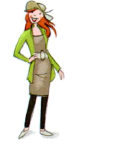
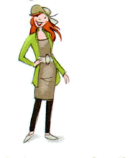
AB A1.2 p78: native page matching scan (13.5px DroidSerif body, 28.5px title, scan-data coords; 4 graded checks)

Changed region(s): [[0.096, 0.0, 0.48, 0.9333], [0.672, 0.9867, 0.72, 1.0], [0.912, 0.9867, 0.936, 1.0]]

diff --git a/src/native-ab12/NativeAB12P78.tsx b/src/native-ab12/NativeAB12P78.tsx
@@ -37,13 +37,13 @@ export function NativeAB12P78({page}:{page:string}){
 
  if(page!=='78')return null;
  return <div className="nativeAB12" ref={root} data-native-ab12={page}><style>{`@font-face{font-family:FiraSans;src:url('assets/fonts/firasans-latin-400.woff2') format('woff2');font-weight:400}@font-face{font-family:FiraSans;src:url('assets/fonts/firasans-latin-700.woff2') format('woff2');font-weight:700}@font-face{font-family:FiraSans;src:url('assets/fonts/firasans-latin-600.woff2') format('woff2');font-weight:600}@font-face{font-family:FiraSans;src:url('assets/fonts/firasans-latin-500.ttf') format('truetype');font-weight:500}@font-face{font-family:DroidSerif;src:url('assets/fonts/droid-serif-400.ttf') format('truetype');font-weight:400}@font-face{font-family:DroidSerif;src:url('assets/fonts/droid-serif-700.woff2') format('woff2');font-weight:700}
-[data-native-ab12='78'] .naText{font-family:DroidSerif,Georgia,serif;font-size:13px;color:#2b2b2b;letter-spacing:0;position:absolute;white-space:nowrap}
+[data-native-ab12='78'] .naText{font-family:DroidSerif,Georgia,serif;font-size:13.5px!important;color:#2b2b2b;letter-spacing:0;position:absolute;white-space:nowrap}
 [data-native-ab12='78'] .naArt{position:absolute;object-fit:fill}
 [data-native-ab12='78'] .naNum78{position:absolute;width:21px;height:17px;background:#e30613;color:#fff;font:700 13px/17px FiraSans,sans-serif;text-align:center}
 [data-native-ab12='78'] .naKB78{position:absolute;font:600 10.5px FiraSans,sans-serif;color:#5ab0da}
 [data-native-ab12='78'] .naRail78{position:absolute;font:600 10px FiraSans,sans-serif;color:#6f77ab;letter-spacing:2px;writing-mode:vertical-rl;transform:rotate(180deg)}
 [data-native-ab12='78'] .naT78{font-family:FiraSans,sans-serif!important;font-weight:600;font-size:15px!important;color:#17141c!important}
-[data-native-ab12='78'] .naTitle78{font-size:22.5px!important;letter-spacing:.7px!important;color:#1a1a1a!important}
+[data-native-ab12='78'] .naTitle78{font-size:28.5px!important;letter-spacing:0!important;color:#1a1a1a!important}
 [data-native-ab12='78'] .naLet78{font-size:15px!important}
 [data-native-ab12='78'] .naField78{position:absolute;width:13px;height:16px;background:transparent;border:none;border-bottom:1.5px solid #9aa3ab;font:14px DroidSerif,Georgia,serif;color:#1c3f8f;padding:0;text-align:center;outline:none;box-sizing:border-box}
 [data-native-ab12='78'] .naCanvas .naField78[data-check-mark="ok"]{background:transparent!important;border-color:transparent!important;box-shadow:none!important;border-bottom:2px solid #2f7d4f!important;color:#1c3f8f!important}
@@ -55,7 +55,7 @@ export function NativeAB12P78({page}:{page:string}){
 [data-native-ab12='78'] .naPick78[data-check-mark="ok"] .naOpt78.on78{background:#bfe3c8}
 [data-native-ab12='78'] .naPick78[data-check-mark="bad"] .naOpt78.on78{background:#f5c1c1}
 [data-native-ab12='78'] .naPick78[data-check-mark="bad"][data-empty="1"]{box-shadow:0 2px 0 #c62f2f}
-[data-native-ab12='78'] .naDot78{position:absolute;width:11px!important;height:11px!important;border-width:1.5px!important;margin:0!important}
+[data-native-ab12='78'] .naDot78{position:absolute;width:10px!important;height:10px!important;border-width:1.5px!important;margin:0!important}
 [data-native-ab12='78'] .naBul78{position:absolute;font:11px Arial,sans-serif}
 [data-native-ab12='78'] .naField5{position:absolute;height:17px;background:transparent;border:none;border-bottom:1.5px solid #9aa3ab;font:13.5px DroidSerif,Georgia,serif;color:#1c3f8f;padding:0 2px;outline:none;box-sizing:border-box}
 [data-native-ab12='78'] .naCanvas .naField5[data-check-mark="ok"]{background:transparent!important;border-color:transparent!important;box-shadow:none!important;border-bottom:2px solid #2f7d4f!important;color:#1c3f8f!important}
@@ -66,9 +66,9 @@ export function NativeAB12P78({page}:{page:string}){
 `}</style><div className="naCanvas naNarrow" style={{width:W,height:H,transform:`translate(-50%,-50%) scale(${scale})`}}>
 
   {/* banner */}
-  <div style={{position:'absolute',left:0,top:28,width:736,height:82,background:'linear-gradient(90deg,#f2c2c8 0%,#f6ccd1 55%,#fcd4d7 100%)'}}/>
-  {art('photo',4,28,233,82)}
-  {text(258,46,420,'Am besten sind seine Schuhe!','naTitle78')}
+  <div style={{position:'absolute',left:237,top:27,width:495,height:60,background:'linear-gradient(90deg,#f2c2c8 0%,#f6ccd1 55%,#fcd4d7 100%)'}}/>
+  {art('photo',4,28,233,62)}
+  {text(259,39,420,'Am besten sind seine Schuhe!','naTitle78')}
 
   {/* ex 1 Was haben die Leute an? */}
   {kb(56,141,'KB 2')}{num(91,133,'1')}
@@ -95,9 +95,9 @@ export function NativeAB12P78({page}:{page:string}){
   {G('p78-1-ho1',443,256,'1 Hose 1')}{L(456,256,'O')}{L(469,256,'S')}{G('p78-1-ho2',482,256,'1 Hose 2')}
   {/* PULLOVER */}
   {G('p78-1-pu1',449,275,'1 Pullover 1')}{G('p78-1-pu2',461,275,'1 Pullover 2')}{L(474,275,'L')}{L(486,275,'L')}{G('p78-1-pu3',499,275,'1 Pullover 3')}{L(511,275,'V')}{G('p78-1-pu4',524,275,'1 Pullover 4')}{G('p78-1-pu5',537,275,'1 Pullover 5')}
-  {art('woman',300,156,125,150)}
+  {art('woman',295,152,135,158)}
   {art('man',617,145,59,154)}
-  {check('78-1',190,248,{'p78-1-kl1':'k','p78-1-kl2':'e','p78-1-kl3':'i','p78-1-kl4':'d','p78-1-gu1':'ü','p78-1-gu2':'t','p78-1-gu3':'e','p78-1-gu4':'l','p78-1-st1':'s','p78-1-st2':'t','p78-1-st3':'u','p78-1-st4':'m','p78-1-st5':'p','p78-1-st6':'f','p78-1-st7':'s','p78-1-st8':'e','p78-1-ja1':'j','p78-1-ja2':'a','p78-1-ja3':'e','p78-1-mu1':'m','p78-1-mu2':'ü','p78-1-mu3':'e','p78-1-he1':'h','p78-1-he2':'e','p78-1-he3':'d','p78-1-sp1':'s','p78-1-sp2':'c','p78-1-sp3':'h','p78-1-sp4':'u','p78-1-sp5':'h','p78-1-sp6':'e','p78-1-ma1':'m','p78-1-ma2':'n','p78-1-ma3':'t','p78-1-ma4':'e','p78-1-ma5':'l','p78-1-ho1':'h','p78-1-ho2':'e','p78-1-pu1':'p','p78-1-pu2':'u','p78-1-pu3':'o','p78-1-pu4':'e','p78-1-pu5':'r'})}
+  {check('78-1',190,254,{'p78-1-kl1':'k','p78-1-kl2':'e','p78-1-kl3':'i','p78-1-kl4':'d','p78-1-gu1':'ü','p78-1-gu2':'t','p78-1-gu3':'e','p78-1-gu4':'l','p78-1-st1':'s','p78-1-st2':'t','p78-1-st3':'u','p78-1-st4':'m','p78-1-st5':'p','p78-1-st6':'f','p78-1-st7':'s','p78-1-st8':'e','p78-1-ja1':'j','p78-1-ja2':'a','p78-1-ja3':'e','p78-1-mu1':'m','p78-1-mu2':'ü','p78-1-mu3':'e','p78-1-he1':'h','p78-1-he2':'e','p78-1-he3':'d','p78-1-sp1':'s','p78-1-sp2':'c','p78-1-sp3':'h','p78-1-sp4':'u','p78-1-sp5':'h','p78-1-sp6':'e','p78-1-ma1':'m','p78-1-ma2':'n','p78-1-ma3':'t','p78-1-ma4':'e','p78-1-ma5':'l','p78-1-ho1':'h','p78-1-ho2':'e','p78-1-pu1':'p','p78-1-pu2':'u','p78-1-pu3':'o','p78-1-pu4':'e','p78-1-pu5':'r'})}
 
   {/* ex 2 Malen (free) */}
   {kb(56,315,'KB 3')}{num(91,307,'2')}
@@ -109,71 +109,74 @@ export function NativeAB12P78({page}:{page:string}){
   {kb(56,386,'KB 4')}{num(91,377,'3')}
   {text(117,377,220,'Was passt? Markieren Sie.','naT78')}
   {rail(72,467,'STRUKTUREN')}
-  <div className="naText" style={{left:137,top:405,width:360}}><Words text="a  Das T-Shirt gefällt mir "/><span style={{background:'#e3dc67',padding:'0 1px'}}>besser</span><Words text="/lieber als die Bluse."/></div>
-  <div className="naText" style={{left:137,top:425,width:320}}><Words text="b  Ich mag "/>{pick('p78-3b')}<Words text=" Orangensaft als Cola."/></div>
-  <div className="naText" style={{left:137,top:444,width:600}}><Words text="c  Mir schmeckt das Brot in Deutschland "/>{pick('p78-3c')}<Words text=" als das Brot in meinem Heimatland."/></div>
-  <div className="naText" style={{left:137,top:464,width:300}}><Words text="d  Ich trage "/>{pick('p78-3d')}<Words text=" Kleider als Röcke."/></div>
+  <div className="naText" style={{left:118,top:405,width:375}}><Words text="a  Das T-Shirt gefällt mir "/><span style={{background:'#e3dc67',padding:'0 1px'}}>besser</span><Words text="/lieber als die Bluse."/></div>
+  <div className="naText" style={{left:118,top:425,width:330}}><Words text="b  Ich mag "/>{pick('p78-3b')}<Words text=" Orangensaft als Cola."/></div>
+  <div className="naText" style={{left:118,top:444,width:620}}><Words text="c  Mir schmeckt das Brot in Deutschland "/>{pick('p78-3c')}<Words text=" als das Brot in meinem Heimatland."/></div>
+  <div className="naText" style={{left:118,top:464,width:310}}><Words text="d  Ich trage "/>{pick('p78-3d')}<Words text=" Kleider als Röcke."/></div>
   {check('78-3',440,459,{'p78-3b':'lieber','p78-3c':'besser','p78-3d':'lieber'})}
 
   {/* ex 4 als oder wie? */}
   {kb(56,519,'KB 4')}{num(91,512,'4')}
   {text(117,512,220,'als oder wie? Kreuzen Sie an.','naT78')}
   {rail(72,650,'STRUKTUREN')}
-  {text(137,542,175,'a  Der Hut gefällt mir besser')}
+  {text(118,542,196,'a  Der Hut gefällt mir besser')}
   {art('xals',313,542,81,19)}
   {text(400,542,15,'wie')}{text(441,542,75,'die Mütze.')}
-  {text(137,561,270,'b  Schau mal, die Bluse kostet genauso viel')}
-  {dot('p78-4b','als',415,559,'4b als')}{text(437,561,20,'als')}
-  {dot('p78-4b','wie',470,559,'4b wie')}{text(492,561,20,'wie')}
+  {text(118,561,290,'b  Schau mal, die Bluse kostet genauso viel')}
+  {dot('p78-4b','als',418,557,'4b als')}{text(440,561,20,'als')}
+  {dot('p78-4b','wie',474,557,'4b wie')}{text(495,561,20,'wie')}
   {text(536,561,80,'das T-Shirt.')}
-  {text(137,581,185,'c  Die Jacke finde ich schöner')}
-  {dot('p78-4c','als',329,578,'4c als')}{text(351,581,20,'als')}
-  {dot('p78-4c','wie',384,578,'4c wie')}{text(406,581,20,'wie')}
+  {text(118,581,200,'c  Die Jacke finde ich schöner')}
+  {dot('p78-4c','als',329,576,'4c als')}{text(354,581,20,'als')}
+  {dot('p78-4c','wie',388,576,'4c wie')}{text(409,581,20,'wie')}
   {text(450,581,85,'den Mantel.')}
-  {text(137,600,390,'d  Die Hose finde ich nicht schön. Nimm doch die Jeans hier.')}
-  {text(137,620,160,'Die finde ich viel besser')}
-  {dot('p78-4d','als',307,617,'4d als')}{text(329,620,20,'als')}
-  {dot('p78-4d','wie',362,617,'4d wie')}{text(383,620,20,'wie')}
+  {text(118,600,415,'d  Die Hose finde ich nicht schön. Nimm doch die Jeans hier.')}
+  {text(118,620,185,'Die finde ich viel besser')}
+  {dot('p78-4d','als',308,615,'4d als')}{text(326,620,20,'als')}
+  {dot('p78-4d','wie',360,615,'4d wie')}{text(386,620,20,'wie')}
   {text(427,620,65,'die Hose.')}
-  {text(137,639,205,'e  Ich mag T-Shirts genauso gern')}
-  {dot('p78-4e','als',349,637,'4e als')}{text(371,639,20,'als')}
-  {dot('p78-4e','wie',404,637,'4e wie')}{text(426,639,20,'wie')}
+  {text(118,639,225,'e  Ich mag T-Shirts genauso gern')}
+  {dot('p78-4e','als',351,635,'4e als')}{text(374,639,20,'als')}
+  {dot('p78-4e','wie',408,635,'4e wie')}{text(429,639,20,'wie')}
   {text(470,639,55,'Blusen.')}
-  {check('78-4',532,635,{'p78-4b':'wie','p78-4c':'als','p78-4d':'als','p78-4e':'wie'})}
+  {check('78-4',548,633,{'p78-4b':'wie','p78-4c':'als','p78-4d':'als','p78-4e':'wie'})}
 
   {/* ex 5 Ergänzen Sie in der richtigen Form. */}
   {kb(56,697,'KB 4')}{num(91,687,'5')}
   {text(117,687,280,'Ergänzen Sie in der richtigen Form.','naT78')}
   {rail(72,850,'STRUKTUREN')}
+  {text(117,720,15,'a')}
   {bul(143,722,'■','#3b5da0')}{text(160,718,170,'Wie gefällt dir der Rock?')}
   {bul(143,742,'▲','#3eb371')}{text(160,737,295,'Der ist schön, aber das Kleid hier gefällt mir')}
-  {art('besser',453,736,49,22)}
+  {art('besser',458,734,49,22)}
   {text(500,737,40,'. (gut)')}
   {bul(143,761,'●','#a30864')}{text(160,756,192,'Und mir gefällt die Jeans am')}
-  <input className="naField5" aria-label="5a Jeans" data-native-field="p78-5a" style={{left:352,top:754,width:118}} value={values['p78-5a']||''} onChange={e=>set('p78-5a',e.target.value)} autoComplete="off" spellCheck={false}/>
-  {text(475,756,45,'. (gut)')}
+  <input className="naField5" aria-label="5a Jeans" data-native-field="p78-5a" style={{left:356,top:754,width:114}} value={values['p78-5a']||''} onChange={e=>set('p78-5a',e.target.value)} autoComplete="off" spellCheck={false}/>
+  {text(473,756,45,'. (gut)')}
+  {text(117,794,15,'b')}
   {bul(143,800,'■','#3b5da0')}{text(160,795,175,'Wie findest du die Jacke?')}
   {bul(143,820,'▲','#3eb371')}{text(160,814,128,'Die blaue finde ich')}
   <input className="naField5" aria-label="5b blaue" data-native-field="p78-5b1" style={{left:288,top:812,width:117}} value={values['p78-5b1']||''} onChange={e=>set('p78-5b1',e.target.value)} autoComplete="off" spellCheck={false}/>
   {text(410,814,150,'als die schwarze. (gut)')}
   {bul(143,839,'●','#a30864')}{text(160,834,336,'Also, ich mag Blau nicht so gern. Schwarz mag ich')}
-  <input className="naField5" aria-label="5b Schwarz" data-native-field="p78-5b2" style={{left:497,top:832,width:113}} value={values['p78-5b2']||''} onChange={e=>set('p78-5b2',e.target.value)} autoComplete="off" spellCheck={false}/>
+  <input className="naField5" aria-label="5b Schwarz" data-native-field="p78-5b2" style={{left:515,top:832,width:85}} value={values['p78-5b2']||''} onChange={e=>set('p78-5b2',e.target.value)} autoComplete="off" spellCheck={false}/>
   {text(160,854,110,'als Blau. (gern)')}
+  {text(117,892,15,'c')}
   {bul(143,898,'■','#3b5da0')}{text(160,893,300,'Wir müssen noch Obst kaufen. Was magst du')}
-  <input className="naField5" aria-label="5c Obst" data-native-field="p78-5c1" style={{left:458,top:897,width:115}} value={values['p78-5c1']||''} onChange={e=>set('p78-5c1',e.target.value)} autoComplete="off" spellCheck={false}/>
+  <input className="naField5" aria-label="5c Obst" data-native-field="p78-5c1" style={{left:462,top:897,width:115}} value={values['p78-5c1']||''} onChange={e=>set('p78-5c1',e.target.value)} autoComplete="off" spellCheck={false}/>
   {text(577,893,60,'? (gern)')}
   {text(160,913,140,'Orangen oder Äpfel?')}
   {bul(143,937,'▲','#3eb371')}{text(160,932,170,'Ich mag Orangen genauso')}
-  <input className="naField5" aria-label="5c Orangen" data-native-field="p78-5c2" style={{left:332,top:930,width:118}} value={values['p78-5c2']||''} onChange={e=>set('p78-5c2',e.target.value)} autoComplete="off" spellCheck={false}/>
+  <input className="naField5" aria-label="5c Orangen" data-native-field="p78-5c2" style={{left:350,top:930,width:100}} value={values['p78-5c2']||''} onChange={e=>set('p78-5c2',e.target.value)} autoComplete="off" spellCheck={false}/>
   {text(455,932,120,'wie Äpfel. (gern)')}
   {bul(143,957,'■','#3b5da0')}{text(160,951,370,'Gut, dann kaufen wir beides. Und was trinkst du gern?')}
   {bul(143,976,'▲','#3eb371')}{text(160,970,228,'Das weißt du doch. … Ich mag am')}
-  <input className="naField5" aria-label="5c Cola" data-native-field="p78-5c3" style={{left:392,top:968,width:113}} value={values['p78-5c3']||''} onChange={e=>set('p78-5c3',e.target.value)} autoComplete="off" spellCheck={false}/>
+  <input className="naField5" aria-label="5c Cola" data-native-field="p78-5c3" style={{left:395,top:968,width:111}} value={values['p78-5c3']||''} onChange={e=>set('p78-5c3',e.target.value)} autoComplete="off" spellCheck={false}/>
   {text(510,970,85,'Cola. (gern)')}
-  {check('78-5',600,965,{'p78-5a':'besten','p78-5b1':'besser','p78-5b2':'lieber','p78-5c1':'lieber','p78-5c2':'gern','p78-5c3':'liebsten'})}
+  {check('78-5',612,963,{'p78-5a':'besten','p78-5b1':'besser','p78-5b2':'lieber','p78-5c1':'lieber','p78-5c2':'gern','p78-5c3':'liebsten'})}
 
   {/* footer */}
-  <div style={{position:'absolute',left:20,top:1049,width:48,height:18,background:'#d9d0ab',color:'#fff',font:'600 9.5px FiraSans,sans-serif',display:'flex',alignItems:'center',justifyContent:'center'}}>Modul 8</div>
+  <div style={{position:'absolute',left:2,top:1051,width:56,height:16,background:'#d9d0ab',color:'#fff',font:'600 9.5px FiraSans,sans-serif',display:'flex',alignItems:'center',justifyContent:'center'}}>Modul 8</div>
   {text(68,1050,15,'78','naFoot78')}{text(90,1050,8,'|','naFoot78')}{text(107,1050,95,'achtundsiebzig','naFoot78')}
  </div><audio ref={player} className="naPlayer"/></div>;
 }
